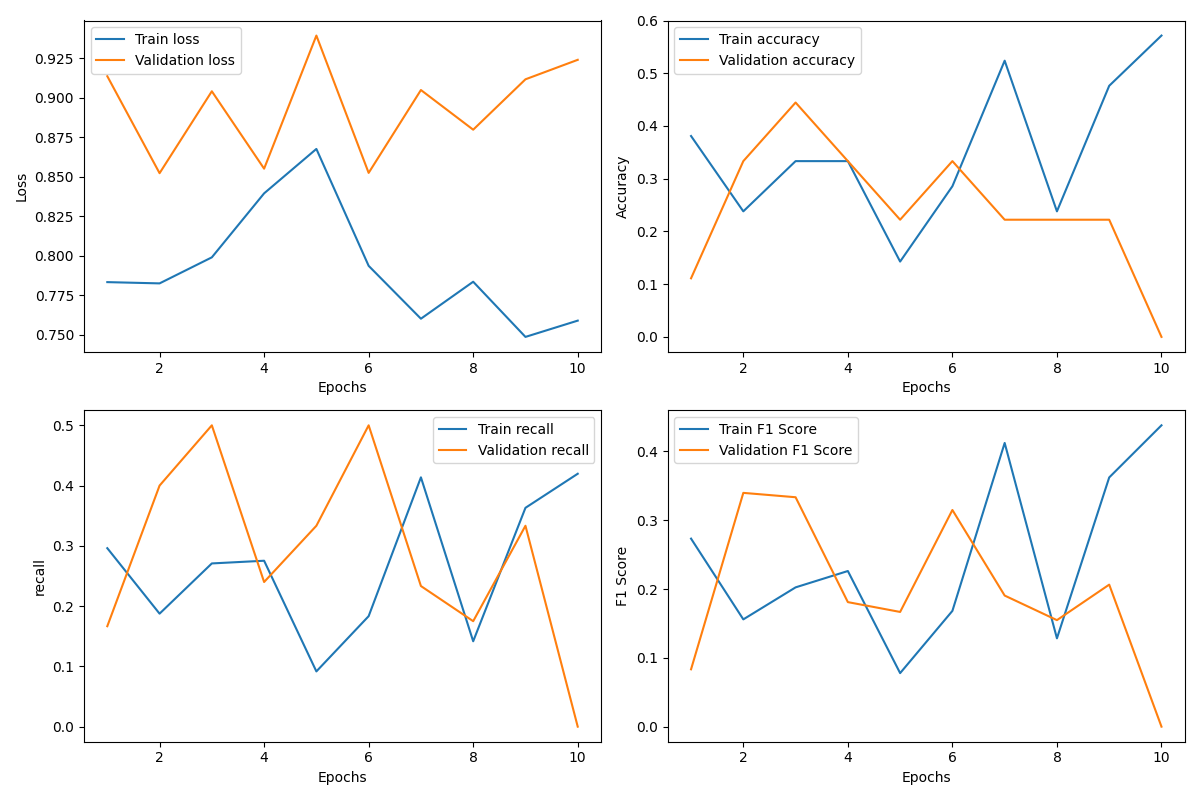
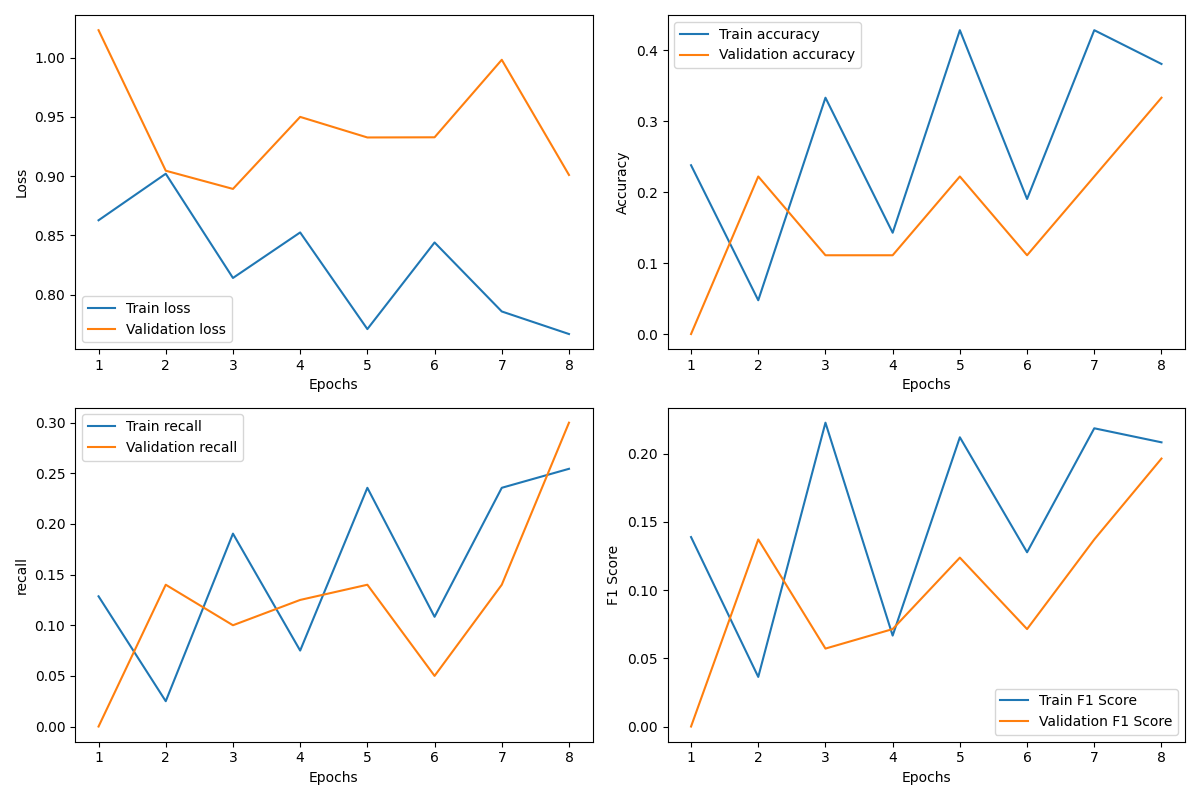
项目更新

diff --git a/数据挖掘实战-财经数据 bert 分类/bert.py b/数据挖掘实战-财经数据 bert 分类/bert.py
@@ -20,6 +20,7 @@ from sklearn.model_selection import train_test_split
 import matplotlib.pyplot as plt
 import random
 from sklearn.metrics import recall_score, f1_score
+import copy
 
 ## 导入BertTokenizer,做分词处理
 tokenizer = BertTokenizer.from_pretrained('bert-base-chinese')
@@ -81,7 +82,7 @@ class BertClassifier(nn.Module):
         return final_layer
 
 
-def train(model, train_data, val_data, learning_rate, epochs):
+def train(model, train_data, val_data, learning_rate, epochs, patience):
     train, val = Dataset(train_data), Dataset(val_data)
     train_dataloader = torch.utils.data.DataLoader(train, batch_size=2, shuffle=True)
     val_dataloader = torch.utils.data.DataLoader(val, batch_size=2)
@@ -91,7 +92,9 @@ def train(model, train_data, val_data, learning_rate, epochs):
     model.to(device=device)
 
     x_data = []
-
+    best_model = None  # 用于存储最佳模型的状态
+    early_stopping_counter = 0
+    min_loss_val = np.inf
     train_loss_list = []  # 添加用于存储训练集损失的列表
     train_acc_list = []  # 添加用于存储训练集准确率的列表
     val_loss_list = []  # 添加用于存储验证集损失的列表
@@ -134,7 +137,11 @@ def train(model, train_data, val_data, learning_rate, epochs):
 
         train_loss_list.append(total_loss_train / len(train_data))  # 平均训练损失
         train_acc_list.append(total_acc_train / len(train_data))  # 平均训练准确率
-
+        print('epoch:',epoch_num)
+        print('train_loss:',round(total_loss_train / len(train_data),4))
+        print('train_acc:', round(total_acc_train / len(train_data), 4))
+        print('recall:', round(recall,4))
+        print('f1 score:', round(f1,4))
         # 将这一周期的召回率和F1分数添加到相应的列表中
         train_recall_list.append(recall)  # 平均训练召回率
         train_f1_list.append(f1)  # 平均训练F1分数
@@ -171,7 +178,21 @@ def train(model, train_data, val_data, learning_rate, epochs):
         x_data.append(epoch_num + 1)
         torch.cuda.empty_cache()
 
-    torch.save(model.state_dict(), "full_model.pkl")
+        if total_loss_val < min_loss_val:
+            min_loss_val = total_loss_val
+            early_stopping_counter = 0  # reset early stopping counter
+            best_model = copy.deepcopy(model.state_dict())  # 更新最佳模型状态
+        else:
+            early_stopping_counter += 1  # increase early stopping counter
+
+        if early_stopping_counter >= patience:
+            print("Early stopping!")
+            break
+
+    if best_model is not None:  # 如果最佳模型存在，我们保存它
+        torch.save(best_model, "best_model.pkl")
+    else:  # 否则，可能所有的模型都没有得到训练，我们就保存最后的模型
+        torch.save(model.state_dict(), "full_model.pkl")
 
 
     # 返回数据，便于后续可视化
@@ -205,7 +226,8 @@ if __name__ == '__main__':
     EPOCHS = 10
     model = BertClassifier()
     LR = 1e-6
-    x_data,train_loss_list, train_acc_list,train_recall_list,train_f1_list, val_loss_list, val_acc_list,val_recall_list,val_f1_list = train(model, data_train, data_test, LR, EPOCHS)
+    patience = 5
+    x_data,train_loss_list, train_acc_list,train_recall_list,train_f1_list, val_loss_list, val_acc_list,val_recall_list,val_f1_list = train(model, data_train, data_test, LR, EPOCHS, patience)
 
     # 可视化训练历史
     fig, axes = plt.subplots(2, 2, figsize=(12, 8))
